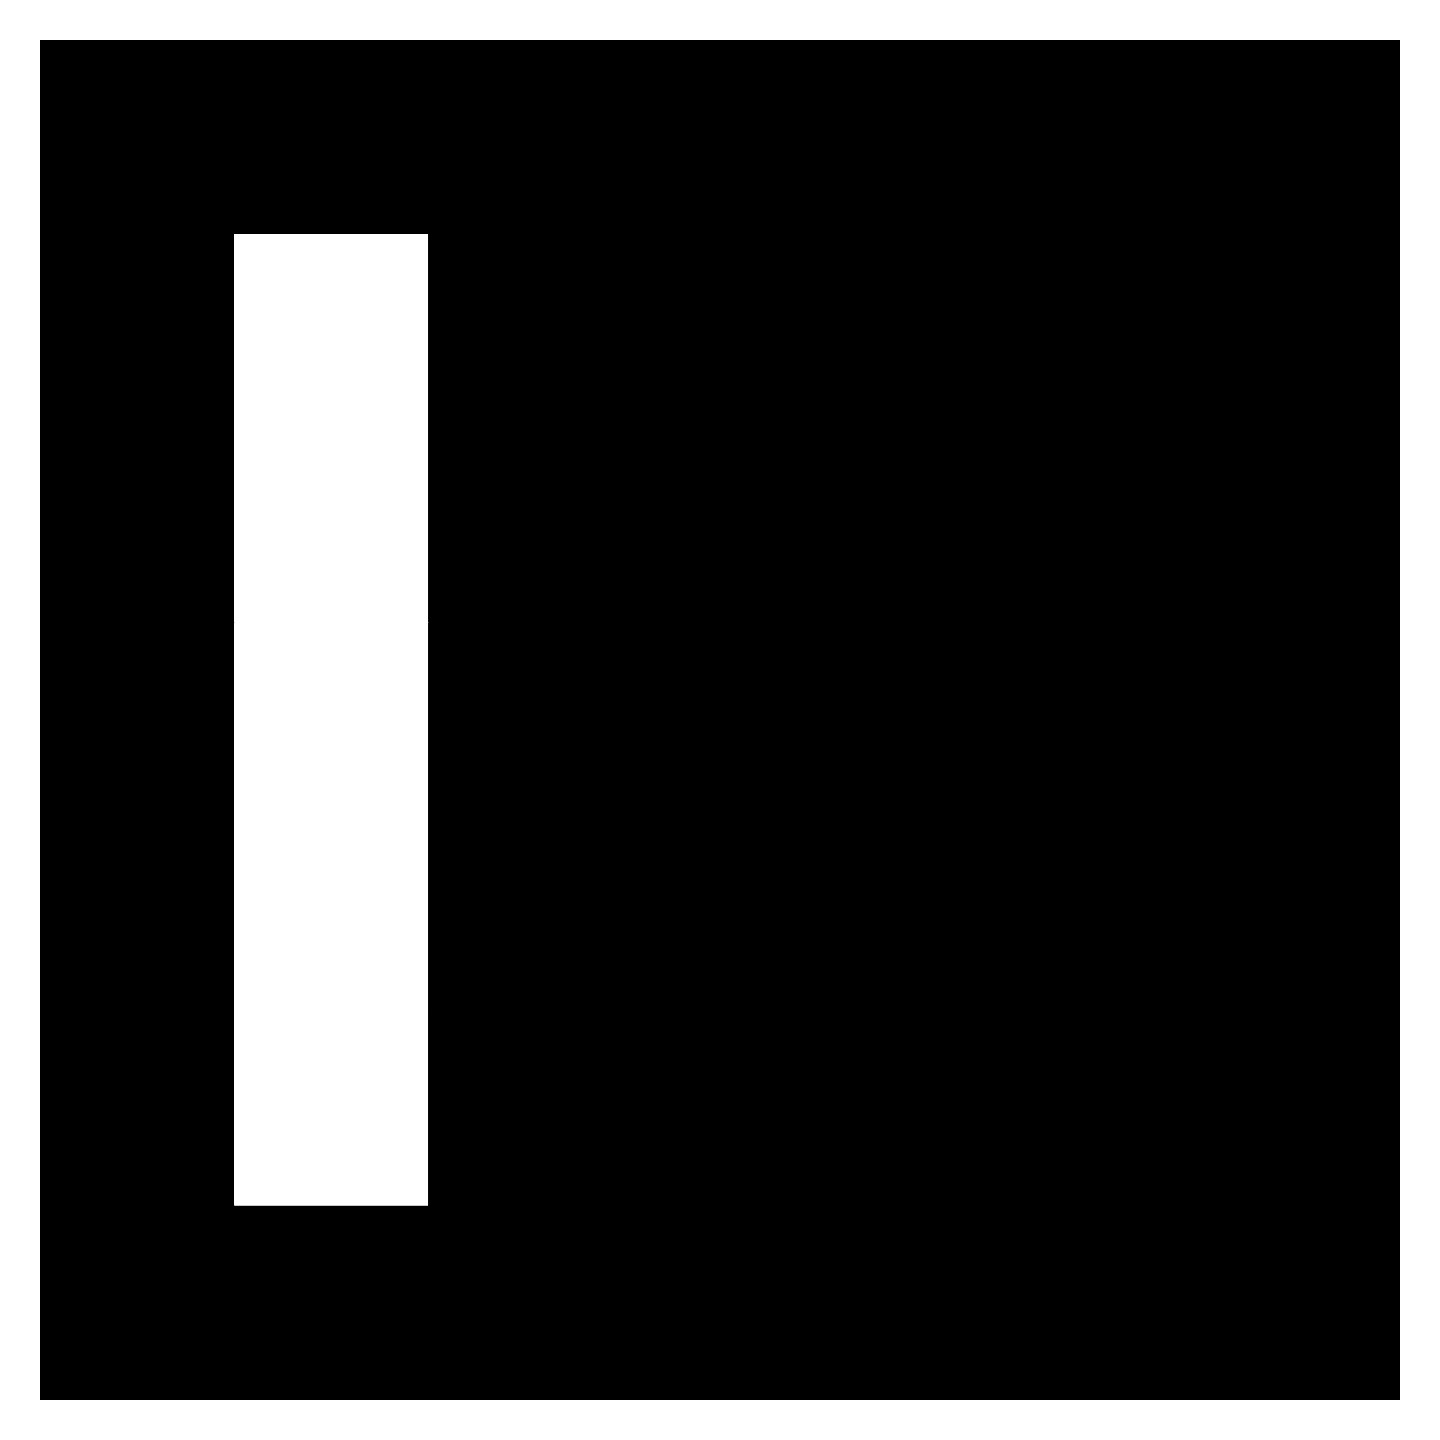
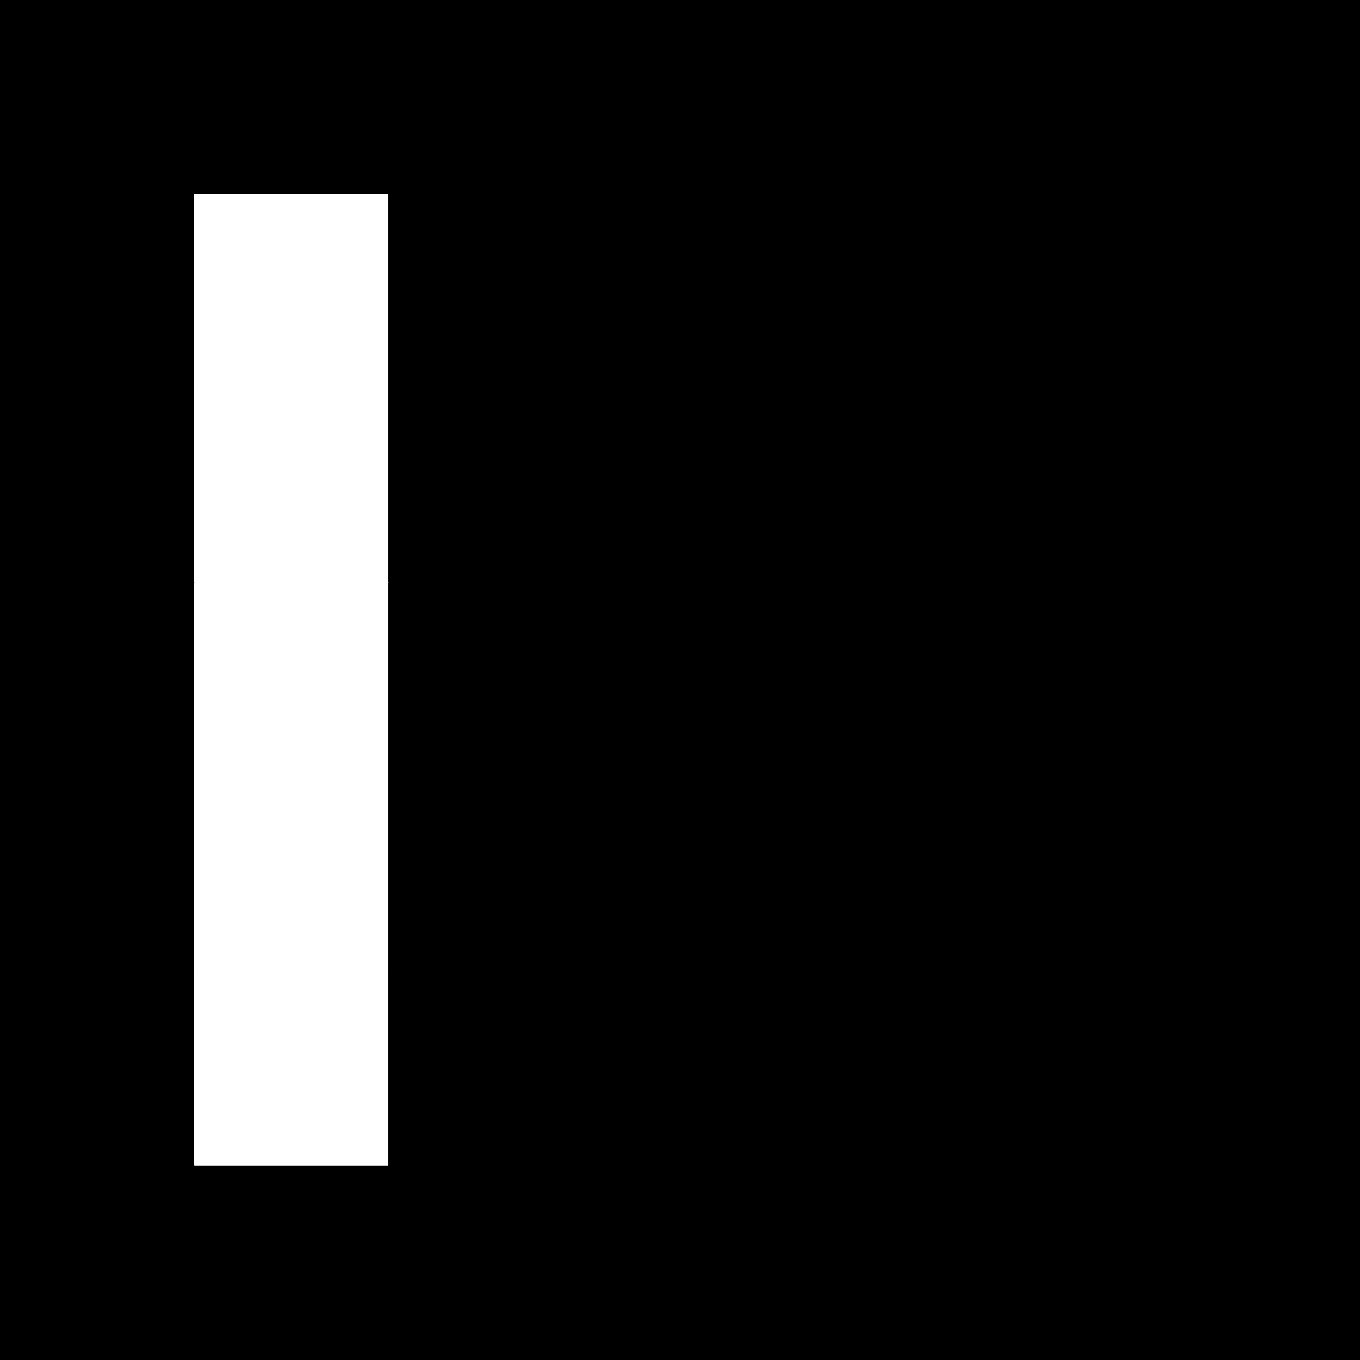
websocket connection to rosbridge topic for dynamic marker display

Changed region(s): [[0.0, 0.0, 1.0, 1.0], [0.1235, 0.1235, 0.3088, 0.8647]]

diff --git a/src/ofApp.cpp b/src/ofApp.cpp
@@ -3,39 +3,142 @@
 //--------------------------------------------------------------
 void ofApp::setup(){
     aruco_marker.load("images/aruco_34x34cm_ID00.jpg");
-    ofBackground(0,0,0);
-    ofSetFrameRate(240); // if vertical sync is off, we can go a bit fast... this caps the framerate at 60fps.
-    ofSetVerticalSync(false);
-
+    ofBackground(255,255,255);
+    ofSetFrameRate(60); // if vertical sync is off, we can go a bit fast... this caps the framerate at 60fps.
+    ofSetVerticalSync(true);
+    client.connect("127.0.0.1", 9090);
+    client.addListener(this);
 }
 
 //--------------------------------------------------------------
 void ofApp::update(){
 
-    if (marker_size < 100){
-        step = -step;
-    }
-    else if (marker_size > 300){
-        step = -step;
-    }
-    marker_size += step;
+//    if (marker_size < 100){
+//        step = -step;
+//    }
+//    else if (marker_size > 300){
+//        step = -step;
+//    }
+//    marker_size += step;
 }
 
 //--------------------------------------------------------------
 void ofApp::draw(){
-    float pixel_pitch = 0.270; // in milimeters
     int marker_size_pixels = marker_size / pixel_pitch;
-    int posx = (monitor_width/2)-marker_size_pixels/2;
-    int posy = (monitor_height/2)-marker_size_pixels/2;
-
-
+    int posx = (ofGetWindowWidth()/2)-marker_size_pixels/2;
+    int posy = (ofGetWindowHeight()/2)-marker_size_pixels/2;
     aruco_marker.draw(posx, posy, marker_size_pixels, marker_size_pixels);
+}
+
+//--------------------------------------------------------------
+void ofApp::onConnect( ofxLibwebsockets::Event& args ){
+    cout<<"on connected"<<endl;
+}
+
+//--------------------------------------------------------------
+void ofApp::onOpen( ofxLibwebsockets::Event& args ){
+    cout<<"on open"<<endl;
+}
+
+//--------------------------------------------------------------
+void ofApp::onClose( ofxLibwebsockets::Event& args ){
+    cout<<"on close"<<endl;
+}
+
+//--------------------------------------------------------------
+void ofApp::onIdle( ofxLibwebsockets::Event& args ){
+    cout<<"on idle"<<endl;
+}
+
+//--------------------------------------------------------------
+void ofApp::onMessage( ofxLibwebsockets::Event& args ){
+    cout<<"got message "<<args.message<<endl;
+    if ( !args.json.isNull() ){
+        std::string op = args.json.get("op", "empty" ).asString();
+        std::string topic = args.json.get("topic", "error").asString();
+        //cout<<"op value: "<<op<<endl;
+
+        if(op == "publish"){
+            if(topic == "/marker_size" ){
+                int requested_marker_size = args.json.get("msg", "error").get("data", "error").asInt();
+                cout<<"Data value: "<<requested_marker_size<<endl;
+
+                setMarquerSize(requested_marker_size);
+            }
+        }
+    } else {
+        cout<<"Received message with no JSON formatting"<<args.message<<endl;
+    }
+}
+
+//--------------------------------------------------------------
+void ofApp::onBroadcast( ofxLibwebsockets::Event& args ){
+    cout<<"got broadcast "<<args.message<<endl;
+}
+
+//--------------------------------------------------------------
+void ofApp::topicSubscribe(std::string topic, std::string type){
+    // To subscribe to a topic
+    Json::Value msg;
+    msg["op"] = "subscribe";
+    msg["topic"] = topic;
+    msg["type"] = type;
+    client.send(msg.toStyledString());
+
+    /*
+    { "op": "subscribe",
+      (optional) "id": <string>,
+      "topic": <string>,
+      (optional) "type": <string>,
+      (optional) "throttle_rate": <int>,
+      (optional) "queue_length": <int>,
+      (optional) "fragment_size": <int>,
+      (optional) "compression": <string>
+    }
+    */
 
 }
 
 //--------------------------------------------------------------
-void ofApp::keyPressed(int key){
+void ofApp::topicAdvertise(std::string topic, std::string type){
+    // To advertise a topic
+    Json::Value msg;
+    msg["op"] = "advertise";
+    msg["topic"] = topic;
+    msg["type"] = type;
+    client.send(msg.toStyledString());
+}
 
+//--------------------------------------------------------------
+void ofApp::setMarquerSize(int requested_marker_size){
+    float max_width_mm = pixel_pitch*ofGetWindowWidth();
+    float max_height_mm = pixel_pitch*ofGetWindowHeight();
+    float max_size = std::min(max_width_mm,max_height_mm)-20;
+
+    //cout<<"Screen Width: "<< ofGetWindowWidth() <<endl;
+    //cout<<"Screen Height: "<< ofGetWindowHeight() <<endl;
+    //cout<<"Screen Width mm: "<< max_width_mm <<endl;
+    //cout<<"Screen Height mm: "<< max_height_mm <<endl;
+
+
+    if (requested_marker_size >= max_size){
+        marker_size = max_size;
+        cout<<"Error requested a Marker Size greater than maximum value"<< endl;
+        cout<<"Setting the maximum"<< endl;
+    } else if (requested_marker_size < 0.0){
+        marker_size = 0.0;
+        cout<<"Error requested a Marker Size smaller than minimum value"<< endl;
+        cout<<"Setting the minimum"<< endl;
+    } else {
+        marker_size = requested_marker_size;
+    }
+    cout<<"New Marker Size: "<< requested_marker_size <<endl;
+}
+
+//--------------------------------------------------------------
+void ofApp::keyPressed(int key){
+    topicSubscribe("/marker_size", "std_msgs/Int32");
+    topicAdvertise("/dynamic_marker_status", "std_msgs/String");
 }
 
 //--------------------------------------------------------------
@@ -93,3 +196,4 @@ void ofApp::gotMessage(ofMessage msg){
 void ofApp::dragEvent(ofDragInfo dragInfo){
 
 }
+

diff --git a/src/ofApp.h b/src/ofApp.h
@@ -1,6 +1,8 @@
 #pragma once
 
 #include "ofMain.h"
+#include "ofxLibwebsockets.h"
+#include <json/json.h>
 
 #define MARKER_BASE_SIZE 200;  //In milimeters
 class ofApp : public ofBaseApp{
@@ -21,11 +23,30 @@ public:
     void windowResized(int w, int h);
     void dragEvent(ofDragInfo dragInfo);
     void gotMessage(ofMessage msg);
+
+    // websocket methods
+    void onConnect( ofxLibwebsockets::Event& args );
+    void onOpen( ofxLibwebsockets::Event& args );
+    void onClose( ofxLibwebsockets::Event& args );
+    void onIdle( ofxLibwebsockets::Event& args );
+    void onMessage( ofxLibwebsockets::Event& args );
+    void onBroadcast( ofxLibwebsockets::Event& args );
+
+    //ROS related methods
+    void topicSubscribe(std::string topic, std::string type);
+    void topicAdvertise(std::string topic, std::string type);
+
+    //marker related variables and methods
+    void setMarquerSize(int requested_marker_size);
+
     ofImage aruco_marker;
-    int marker_size = MARKER_BASE_SIZE;
-    int monitor_width = 1920;
-    int monitor_height = 1200;
-    int step = 1;
+    float marker_size = MARKER_BASE_SIZE;
+    //float pixel_pitch = 0.270; // in milimeters (RIKER) at max resolution
+    float pixel_pitch = 0.1211; // in milimeters (ATLAS) at max resolution
+
+    ofxLibwebsockets::Client client;
+
+
 
 };
 
